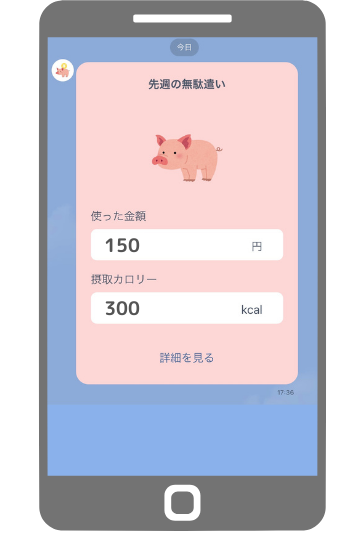
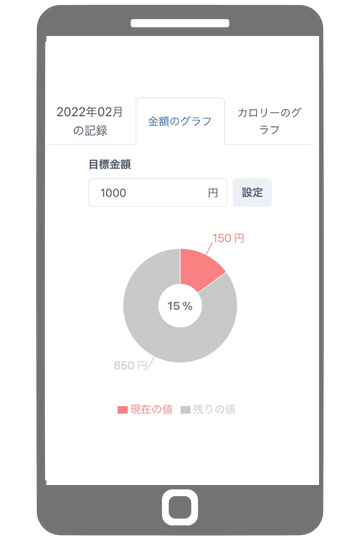
Add: トップページと使い方ページにグラフ機能と目標値設定機能と通知機能を追加 #96

diff --git a/frontend/src/components/pages/Use.tsx b/frontend/src/components/pages/Use.tsx
@@ -14,13 +14,18 @@ import Image07 from '../../images/image07.png'
 import Image08 from '../../images/image08.png'
 import Image09 from '../../images/image09.png'
 import Image10 from '../../images/image10.png'
-import Image11 from '../../images/image11.png'
 import Image15 from '../../images/image15.png'
 import Image16 from '../../images/image16.png'
 import Image17 from '../../images/image17.png'
 import Image18 from '../../images/image18.png'
 import Image19 from '../../images/image19.png'
 import Image20 from '../../images/image20.png'
+import Image23 from '../../images/image23.png'
+import Image24 from '../../images/image24.png'
+import Image25 from '../../images/image25.png'
+import Image26 from '../../images/image26.png'
+import Image27 from '../../images/image27.png'
+import Image28 from '../../images/image28.png'
 
 export const Use: VFC = memo(() => {
   return (
@@ -154,6 +159,26 @@ export const Use: VFC = memo(() => {
                 <Text width='50%'>クリックした食べ物の詳細が表示されます。<br/>間違って記録した場合は、下のボタンから記録の編集や削除ができます。</Text>
                 <Image src={ Image09 } boxSize='45%' />
               </Flex>
+              <Flex justify='space-between'>
+                <Text width='50%'>カレンダーページを下にスクロールすると、今月の使った金額と摂取カロリーの合計が表示されます。</Text>
+                <Image src={ Image28 } boxSize='45%' boxShadow='md' />
+              </Flex>
+              <Flex justify='space-between'>
+                <Text width='50%'>グラフのタブをクリックすると、目標値を設定できます。<br/>設定をクリック。</Text>
+                <Image src={ Image24 } boxSize='45%' boxShadow='md' />
+              </Flex>
+              <Flex justify='space-between'>
+                <Text width='50%'>目標金額と目標カロリーを設定できます。<br/>金額とカロリーを設定したら、設定するをクリック。</Text>
+                <Image src={ Image25 } boxSize='45%' />
+              </Flex>
+              <Flex justify='space-between'>
+                <Text width='50%'>目標値と今月の無駄遣いのグラフが表示されます。<br/>目標値からあとどのくらいの金額やカロリーを摂取できるかを確認できます。</Text>
+                <Image src={ Image26 } boxSize='45%' boxShadow='md' />
+              </Flex>
+              <Flex justify='space-between'>
+                <Text width='50%'>目標値の設定ボタンから目標値の編集と削除ができます。</Text>
+                <Image src={ Image27 } boxSize='45%' />
+              </Flex>
             </Stack>
           </Container>
         </Box>
@@ -162,8 +187,8 @@ export const Use: VFC = memo(() => {
           <Container>
             <UseTitle>5. 通知</UseTitle>
             <Flex justify='space-between'>
-              <Text pt={3} width='50%'>毎週月曜日と毎月1日の9:00にその期間に無駄遣いした金額と摂取カロリーの合計値がメッセージで通知されます。</Text>
-              <Image src={ Image11 } boxSize='45%' />
+              <Text pt={3} width='50%'>無駄遣いが目標値の80%を超えた時と100%を超えた時にメッセージで警告の通知がされます。<br/>目標値が未設定の場合は通知されません。</Text>
+              <Image src={ Image23 } boxSize='45%' />
             </Flex>
           </Container>
         </Box>

diff --git a/frontend/src/components/templates/HowToUse.tsx b/frontend/src/components/templates/HowToUse.tsx
@@ -7,6 +7,7 @@ import Image13 from '../../images/image13.png'
 import Image14 from '../../images/image14.png'
 import Image21 from '../../images/image21.png'
 import Image22 from '../../images/image22.png'
+import Image23 from '../../images/image23.png'
 
 export const HowToUse: VFC = memo(() => {
   return (
@@ -26,17 +27,21 @@ export const HowToUse: VFC = memo(() => {
             <Image src={ Image13 } />
           </Box>
           <Box>
-            <Heading as='h2' size='md' py={10} textAlign='center'>3. 通知を受ける</Heading>
-            <Image src={ Image14 } />
+            <Heading as='h2' size='md' py={10} textAlign='center'>3. お気に入りに追加する</Heading>
+            <Image src={ Image21 } />
           </Box>
         </Flex>
         <Flex justify='space-around' wrap={{ base: 'wrap', md: 'nowrap' }}>
           <Box>
-            <Heading as='h2' size='md' py={10} textAlign='center'>4. お気に入りに追加する</Heading>
-            <Image src={ Image21 } />
+            <Heading as='h2' size='md' py={10} textAlign='center'>4. 目標値を設定する</Heading>
+            <Image src={ Image14 } />
           </Box>
           <Box>
-            <Heading as='h2' size='md' py={10} textAlign='center'>5. バーコードから読み取る</Heading>
+            <Heading as='h2' size='md' py={10} textAlign='center'>5. 通知を受ける</Heading>
+            <Image src={ Image23 } />
+          </Box>
+          <Box>
+            <Heading as='h2' size='md' py={10} textAlign='center'>6. バーコードから読み取る</Heading>
             <Image src={ Image22 } />
           </Box>
         </Flex>
